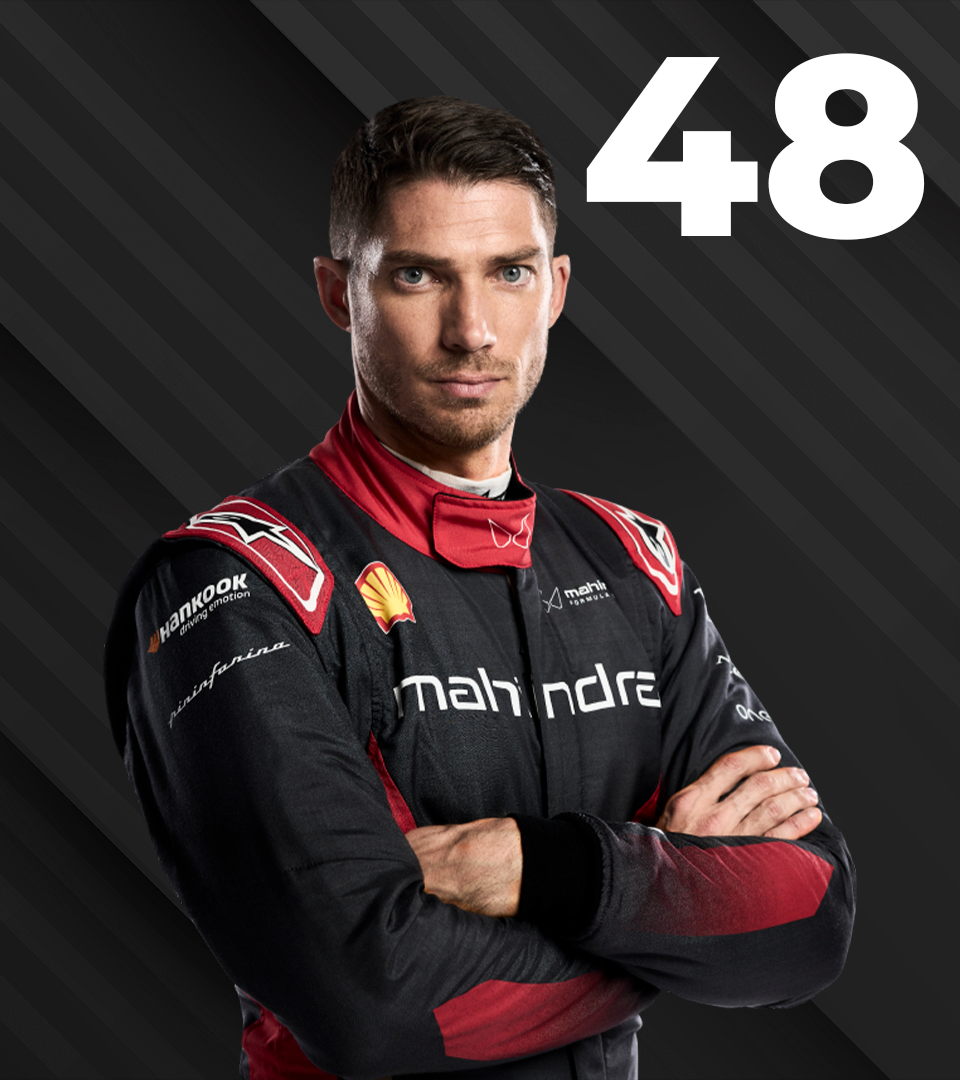
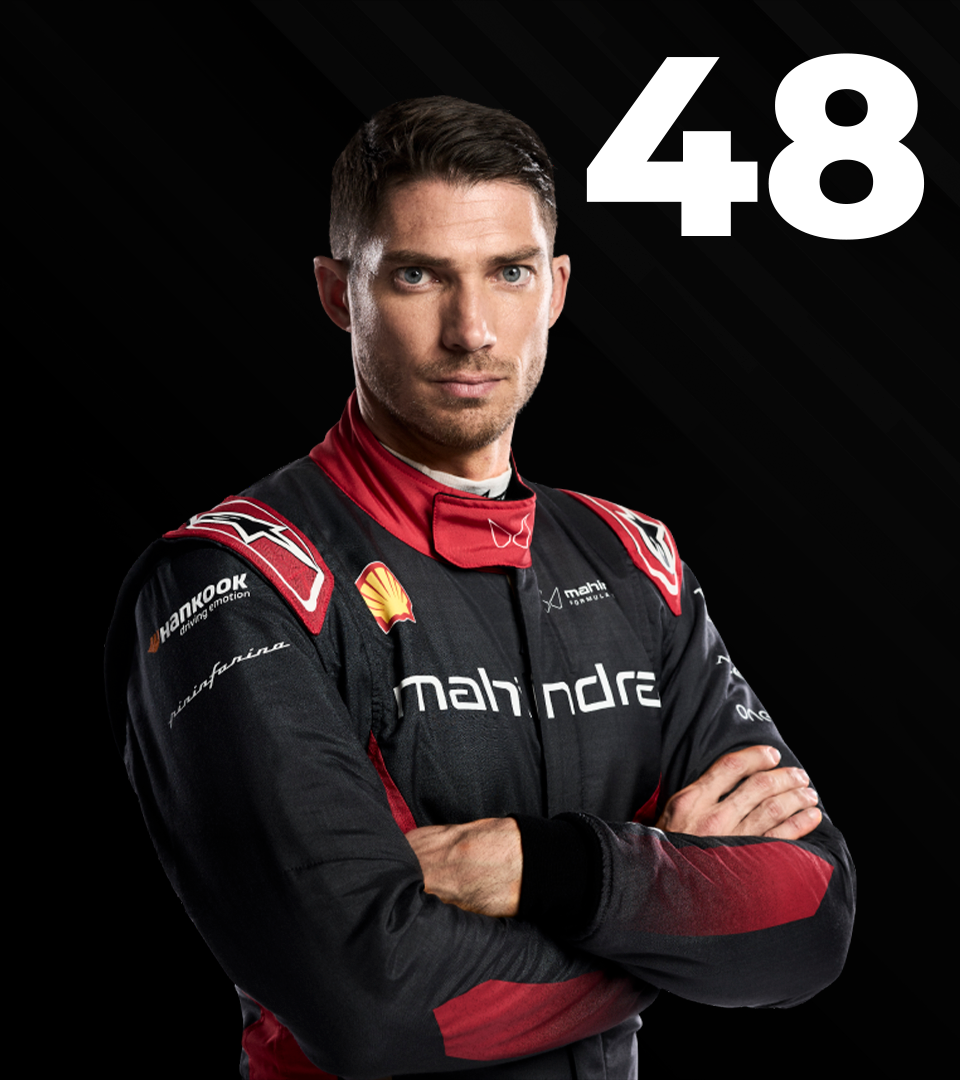
Text banenr home, corrigindo height nas paginas, background footer, removendo comentarios do i18n e alterando algumas imagens

diff --git a/src/styles/TextLoaderStyle.jsx b/src/styles/TextLoaderStyle.jsx
@@ -1,0 +1,60 @@
+import styled, { keyframes } from 'styled-components';
+import Colors from '../constant/Colors';
+import Font from '../constant/Font';
+
+export const Card = styled.div`
+    background: transparent;
+    width: auto;
+`;
+
+export const LoaderContainer = styled.div`
+    color: ${Colors.white};
+    font-weight: 500;
+    font-size: 25px;
+    height: 40px;
+    padding: 10px 10px;
+    display: flex;
+    align-items: center;
+    border-radius: 8px;
+    text-shadow: ${Colors.shadow};
+`;
+
+
+
+export const WordFixed = styled.p`
+    text-transform: uppercase;
+    font-weight: ${Font.txt_100w};
+    font-size: ${Font.txt_3rem};
+`
+
+export const WordsContainer = styled.div`
+    overflow: hidden;
+    position: relative;
+    margin-left: 10px;
+`;
+
+export const fadeInOut = keyframes`
+    0% {
+        opacity: 0;
+        transform: translateY(20%);
+    }
+    50% {
+        opacity: 1;
+        transform: translateY(0);
+    }
+    100% {
+        opacity: 0;
+        transform: translateY(-20%);
+    }
+`;
+
+export const Word = styled.p`
+    display: block;
+    font-weight: ${Font.txt_700w};
+    text-transform: uppercase;
+    color: ${Colors.red_1};
+    font-size: ${Font.txt_3rem};
+    animation: ${fadeInOut} 5s ease-in-out;
+    padding-left: 6px;
+    position: relative;
+`;

diff --git a/src/components/TextLoader.jsx b/src/components/TextLoader.jsx
@@ -1,0 +1,28 @@
+import React, { useState, useEffect } from 'react';
+import { LoaderContainer, WordFixed, Word, WordsContainer, Card } from '../styles/TextLoaderStyle';
+
+const words = ['Rise', 'Race', 'App Mobile', 'Experience', 'At the top'];
+
+const TextLoader = () => {
+    const [currentWord, setCurrentWord] = useState(0);
+
+    useEffect(() => {
+        const interval = setInterval(() => {
+            setCurrentWord((prevWord) => (prevWord + 1) % words.length);
+        }, 5000);
+        return () => clearInterval(interval);
+        }, []);
+
+    return (
+        <Card>
+        <LoaderContainer>
+            <WordFixed>Mahindra</WordFixed> 
+            <WordsContainer>
+                <Word key={currentWord}>{words[currentWord]}</Word>
+            </WordsContainer>
+        </LoaderContainer>
+        </Card>
+    );
+};
+
+export default TextLoader;

diff --git a/src/styles/SectionHomeStyle.jsx b/src/styles/SectionHomeStyle.jsx
@@ -11,13 +11,14 @@ export const SectionHomeStyle = styled.section `
 
         .swiper {
             width: 100%;
-            height: 100dvh;
+            height: calc(100dvh - 70px);
             
 
             .b1 {
-                background-image: url(${banner1});
-                background-position: center;
-                background-size: cover;
+                background-color: ${Colors.black};
+                display: flex;
+                align-items: center;
+                justify-content: center;
             }
 
             .b2 {
@@ -44,6 +45,7 @@ export const SectionHomeStyle = styled.section `
     .swiper-pagination-bullet{
         background-color: ${Colors.red_1};
         transition: ease-in-out 0.2s;
+        
     }
     
 

diff --git a/src/styles/RacesStyle.jsx b/src/styles/RacesStyle.jsx
@@ -1,16 +1,15 @@
 import styled from 'styled-components';
 import Font from '../constant/Font'
 import Colors from '../constant/Colors'
-import Background from '../assets/home/banners/banner-teste.png'
+
 
 export const RaceStyle = styled.section `
     display: flex;
     align-items: center;
     justify-content: center;
     gap: 1.2rem;
-    height: 110dvh;
-    background-image: repeating-linear-gradient(45deg, rgba(226, 226, 226,0.06) 0px, rgba(226, 226, 226,0.06) 2px,transparent 2px, transparent 4px),linear-gradient(90deg, rgb(33,33,33),rgb(33,33,33));
-    background-position: bottom;
+    height: calc(100dvh - 70px);
+    background-color: ${Colors.dark_gray};
         
         /* Swiper */
         .swiper{

diff --git a/src/styles/FooterStyle.jsx b/src/styles/FooterStyle.jsx
@@ -1,7 +1,6 @@
 import styled from 'styled-components'; // Styled Components
 import Colors from '../constant/Colors'; // Var Colors
 import Font from '../constant/Font'; // Var Fonts
-import bgFooter from '../assets/footer/bg.png' // Background Footer
 
 // Footer Style
 export const FooterStyle = styled.footer `
@@ -11,9 +10,7 @@ export const FooterStyle = styled.footer `
     color: ${Colors.white};
     font-size: ${Font.txt_12};
     text-transform: uppercase;
-    background-image:url(${bgFooter});
-    background-position: center;
-    background-size: cover;
+    background-color: ${Colors.black};
 `
 
 // All Content

diff --git a/src/components/home/SectionHome.jsx b/src/components/home/SectionHome.jsx
@@ -6,6 +6,8 @@ import 'swiper/css/effect-fade';
 import 'swiper/css/navigation';
 import 'swiper/css'
 import { SectionHomeStyle } from '../../styles/SectionHomeStyle'
+import TextLoader from '../TextLoader'
+
 
 const SectionHome = () => {
 
@@ -32,11 +34,11 @@ const SectionHome = () => {
           >
             {/* Banner 1 */}
             <SwiperSlide className=' b1'> 
+              <TextLoader/>
             </SwiperSlide>
 
             {/* Banner 2 */}
             <SwiperSlide className=' b2'>
-
             </SwiperSlide>
 
             {/* Banner 3 */}

diff --git a/src/styles/LoginSignUpStyle.jsx b/src/styles/LoginSignUpStyle.jsx
@@ -5,7 +5,7 @@ import Background from '../assets/login_signup/background.png' //Background Sect
 
 // Login & Sign-Up
 export const LoginSignUpStyle = styled.section `        
-    height: 100vh;
+    height: calc(100dvh - 70px);
     width: 100%;
     display: flex;
 `
@@ -95,7 +95,7 @@ export const LoginSignUpMid = styled.div`
             color: ${Colors.white};
             padding: 1rem 2rem;
             outline:none;
-            letter-spacing:1.3px;
+
         }
         
         /* Placeholder */

diff --git a/src/i18n.js b/src/i18n.js
@@ -8,11 +8,11 @@ i18n
   .use(LanguageDetector)
   .use(initReactI18next)
   .init({
-    supportedLngs: ['en', 'pt', 'es'], // Idiomas suportados
-    fallbackLng: 'en', // Idioma padrão se o idioma detectado não for suportado
+    supportedLngs: ['en', 'pt', 'es'],
+    fallbackLng: 'en',
     debug: true,
     interpolation: {
-      escapeValue: false, // React já protege contra XSS
+      escapeValue: false,
     },
     backend: {
       loadPath: '/locales/{{lng}}/translation.json',

diff --git a/src/styles/LoadingStyle.jsx b/src/styles/LoadingStyle.jsx
@@ -2,14 +2,13 @@ import styled from 'styled-components';
 import Colors from '../constant/Colors';
 
 export const LoadingStyle = styled.main`
-    position: fixed;
     height: 100dvh;
     width: 100%;
     background-color:${Colors.black};
     display: flex;
     align-items: center;
     justify-content: center;
-    z-index: 9999;
+    z-index: 99999;
 
     .loader {
         height: 2px;
